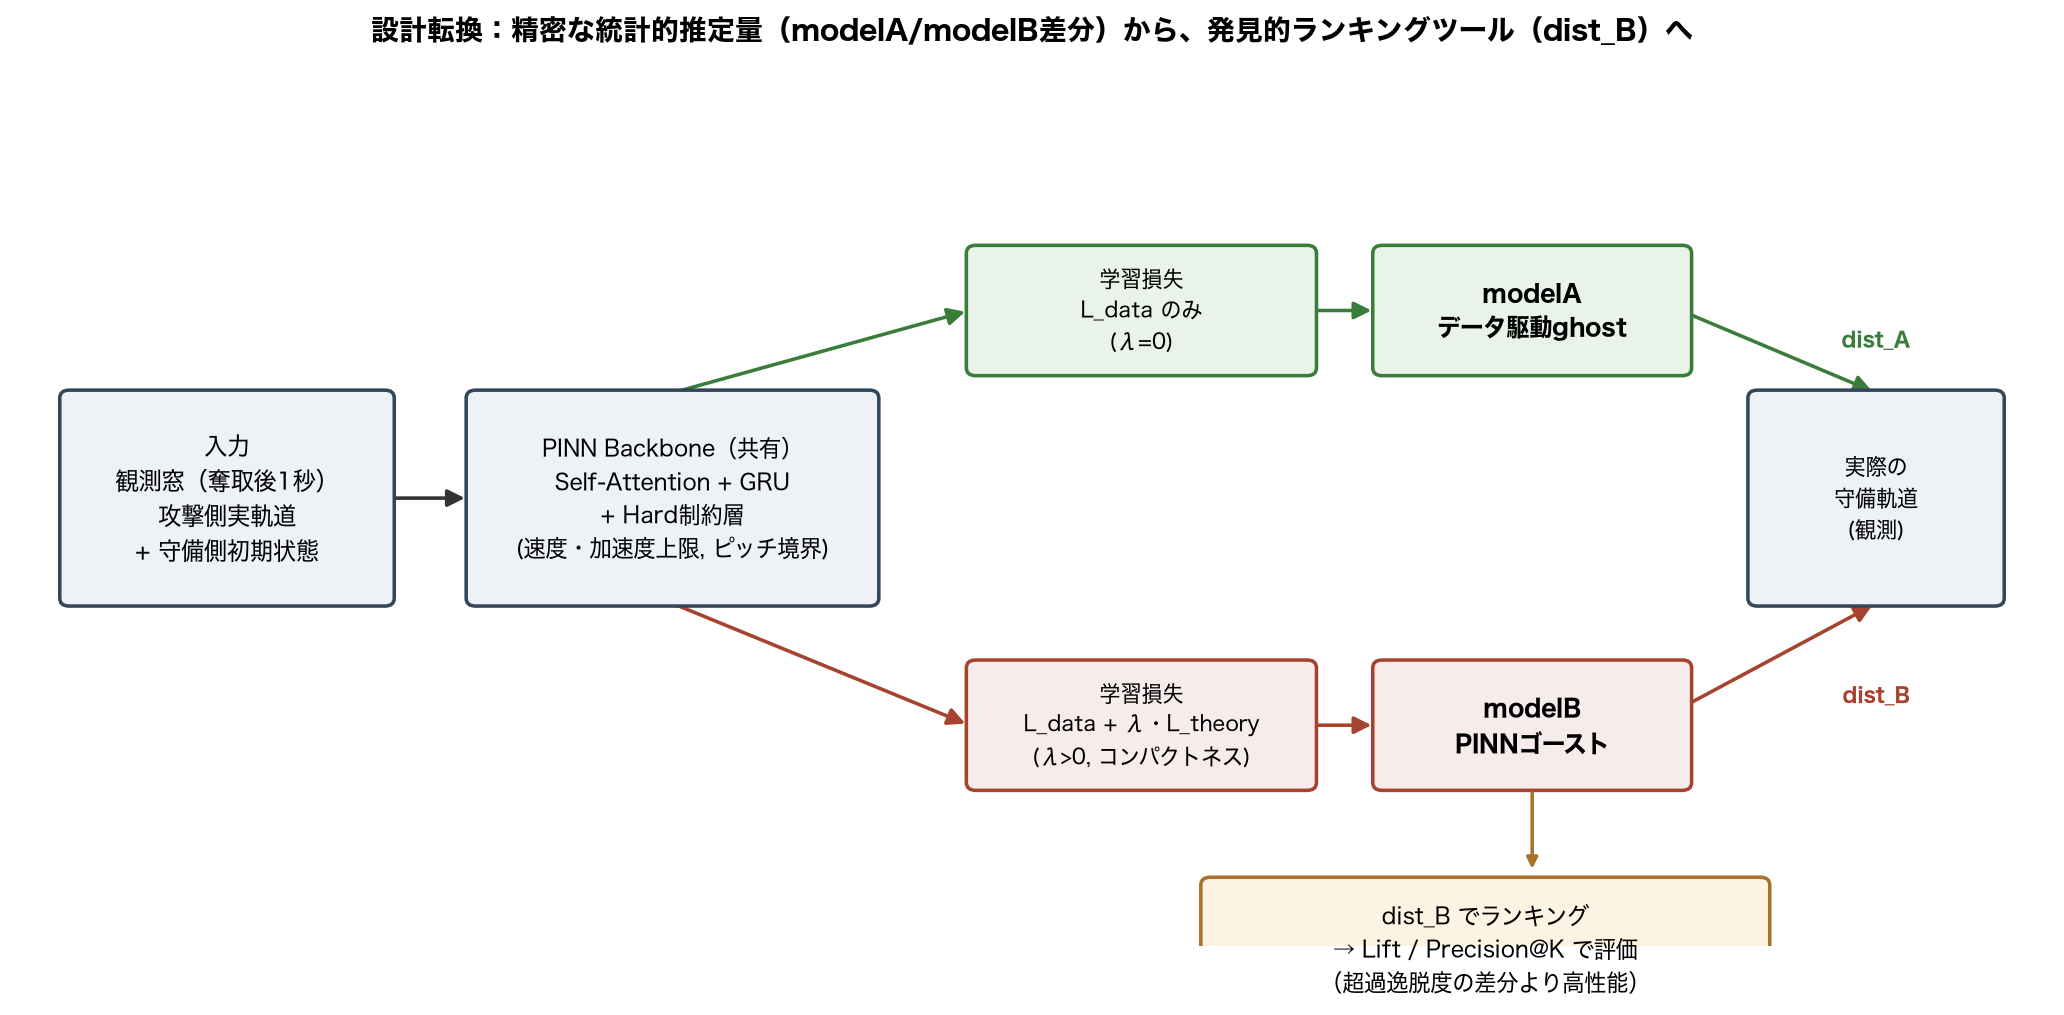
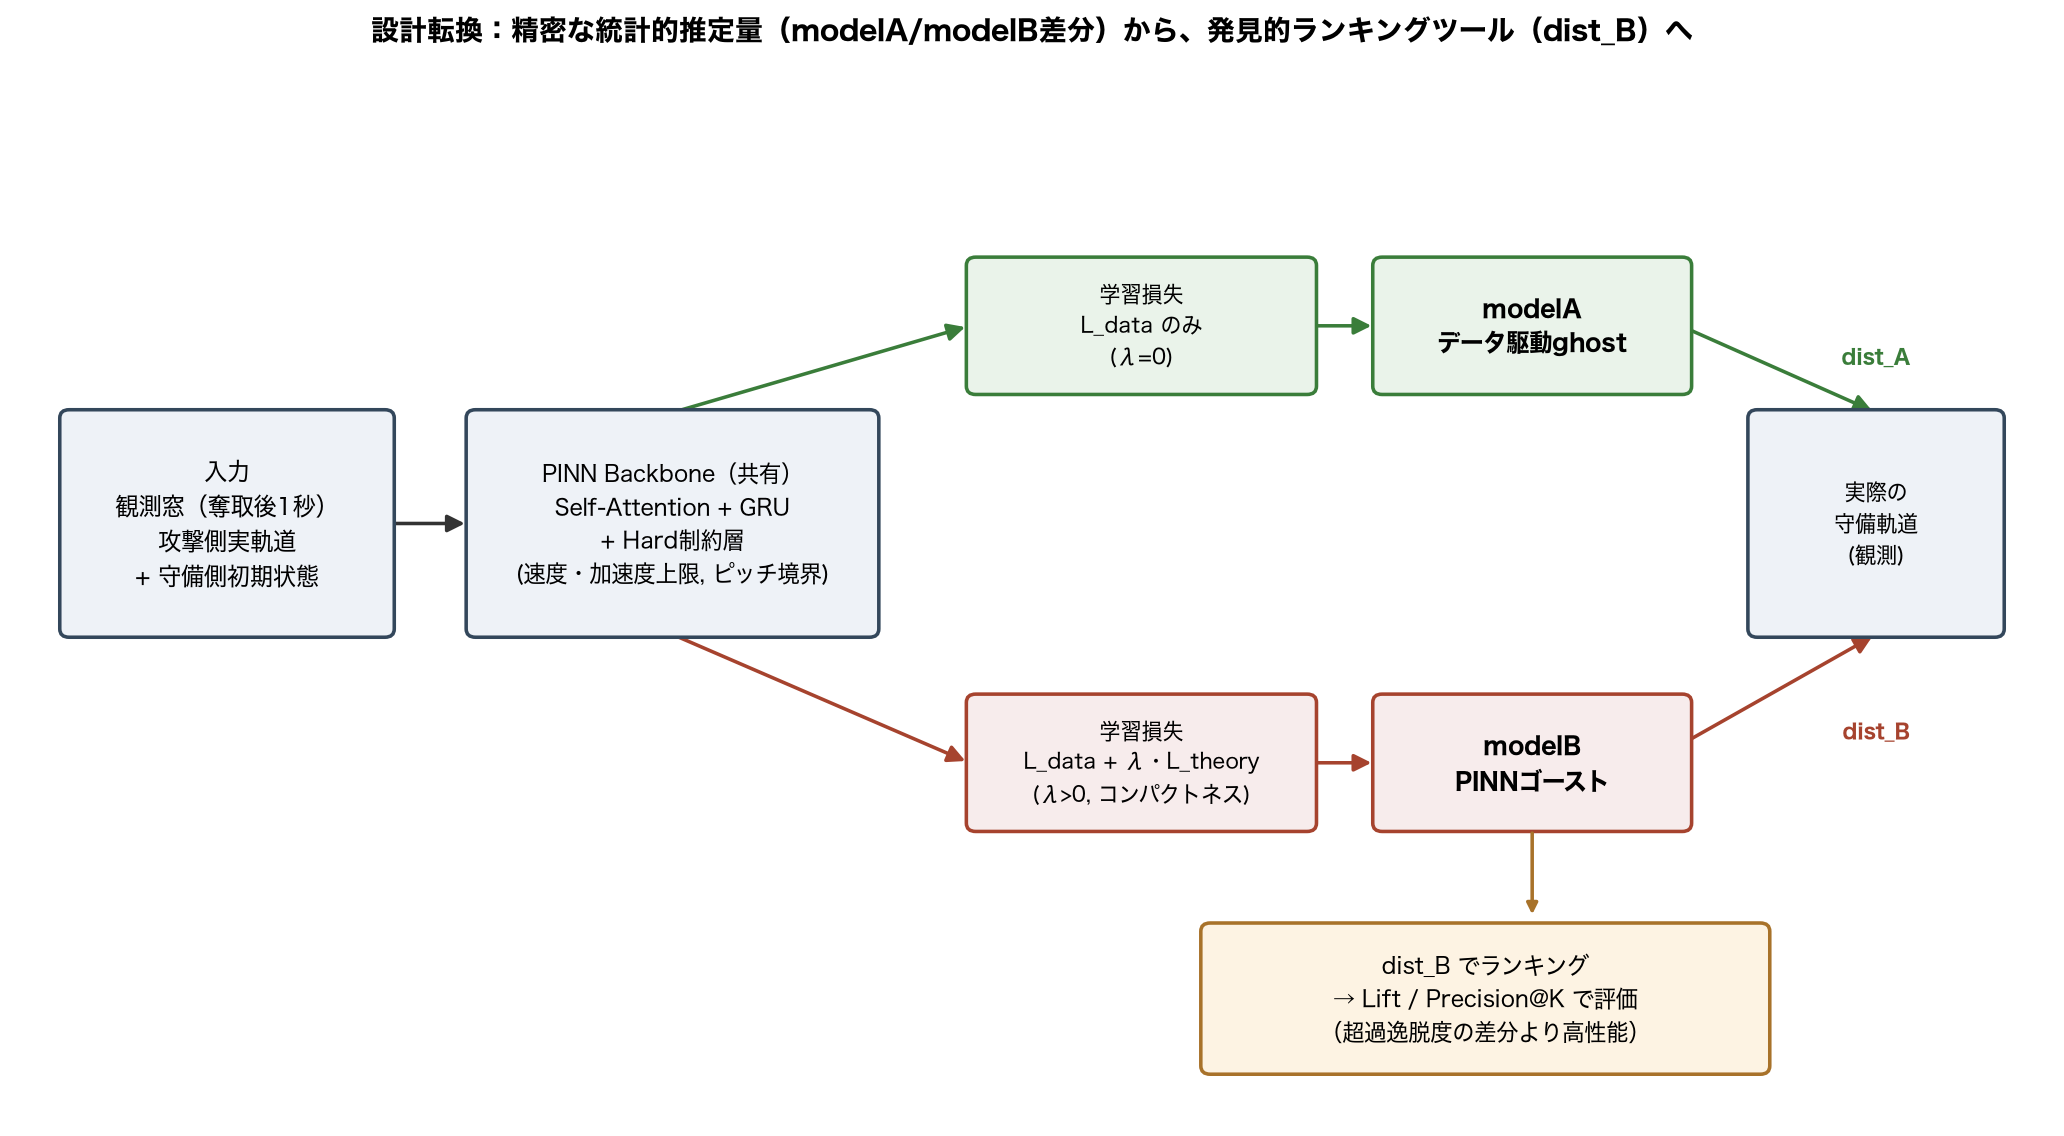
ポスター概念図の下段ボックスが軸範囲外で切れていたのを修正
dist_Bランキングのボックスがylim=(0, 6.5)の下限より外側(y=-0.55〜0.5)に
描かれており、Axesの表示範囲でクリップされていた。ylimを(-0.9, 6.5)に
広げ、図の高さも調整して全体が表示されるようにした。

diff --git a/scripts/poster_method_diagram.py b/scripts/poster_method_diagram.py
@@ -64,9 +64,9 @@ def bottom(b):
 
 
 def main() -> None:
-    fig, ax = plt.subplots(figsize=(13, 6.5))
+    fig, ax = plt.subplots(figsize=(13, 7.3))
     ax.set_xlim(0, 13)
-    ax.set_ylim(0, 6.5)
+    ax.set_ylim(-0.9, 6.5)
     ax.axis("off")
 
     # 1. 入力
